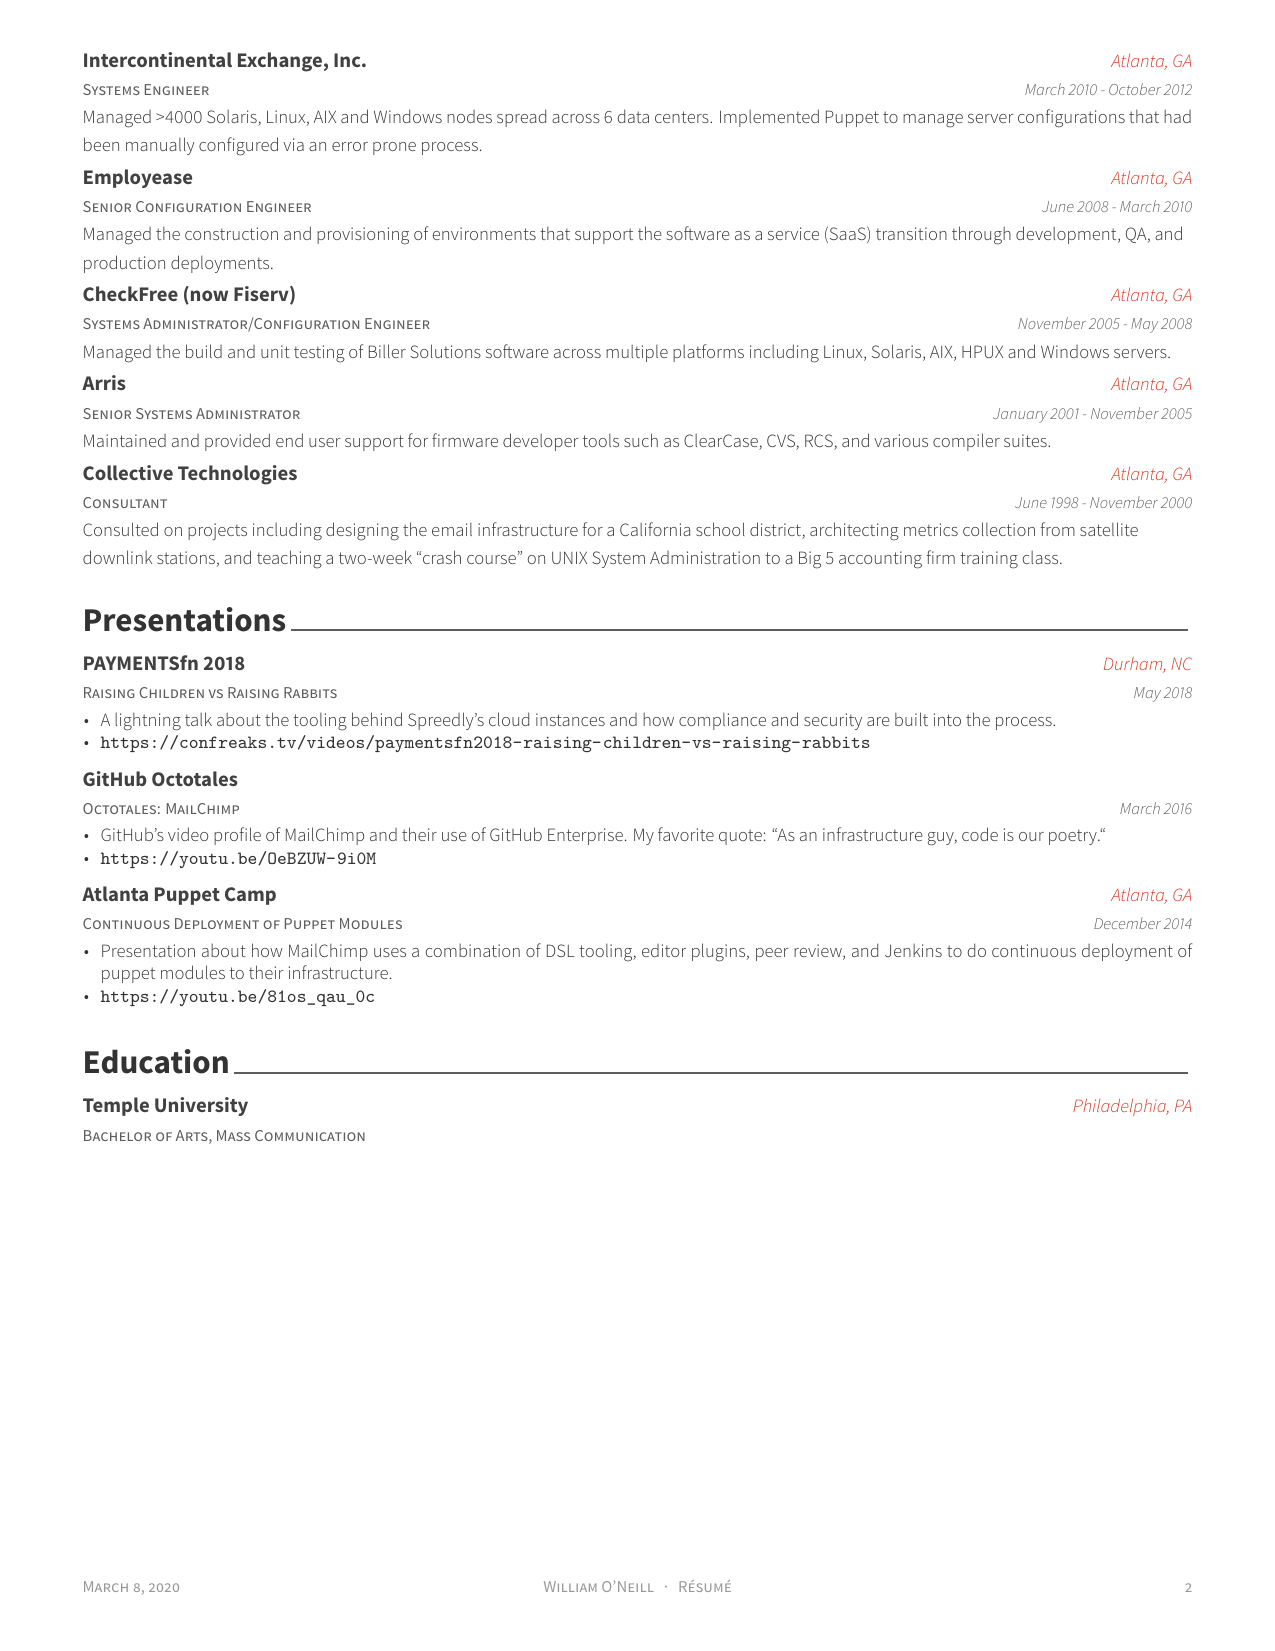
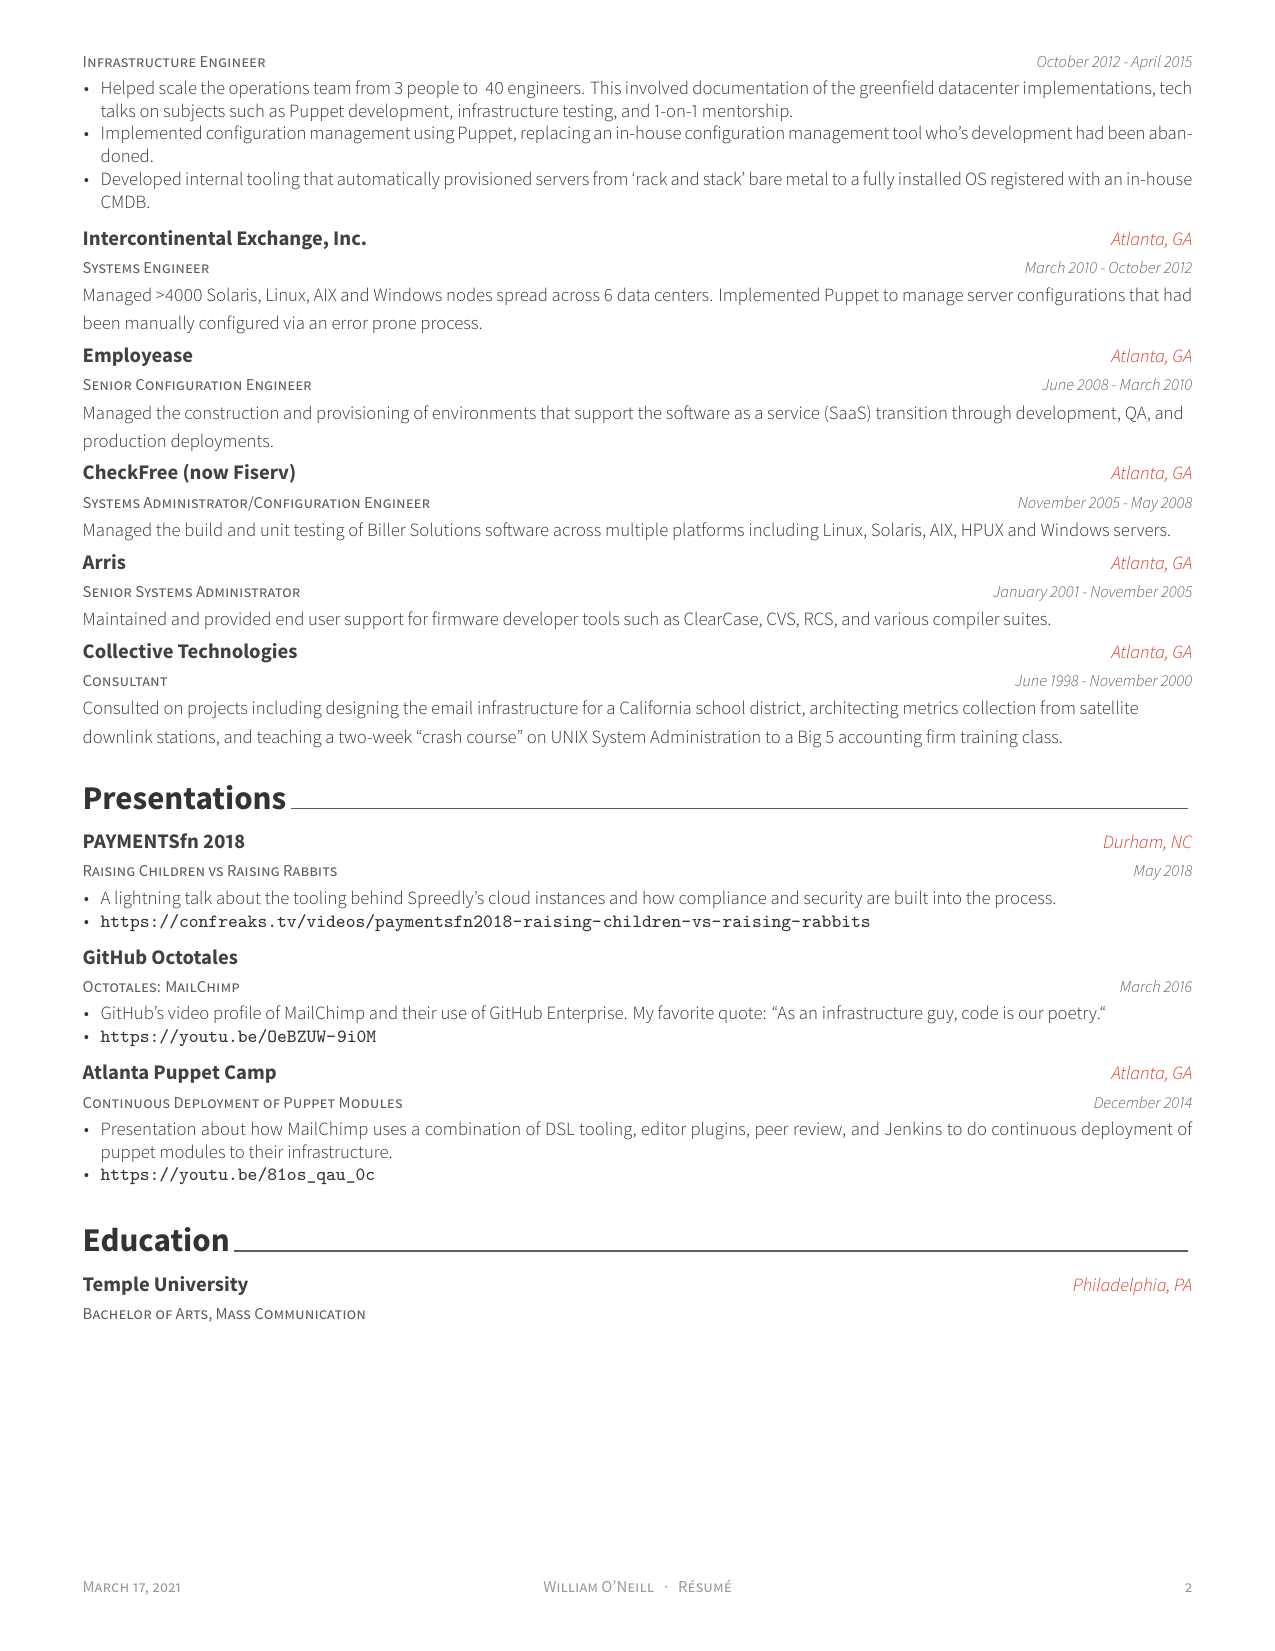
Update with current role

diff --git a/resume/experience.tex b/resume/experience.tex
@@ -9,12 +9,26 @@
 %-------------------------------------------------------------------------------
 \begin{cventries}
 
-%---------------------------------------------------------
+  %---------------------------------------------------------
+  \cventry
+  {Senior DevOps Engineer} % Job title
+  {ReCharge Payments} % Organization
+  {Santa Monica, California (remote)} % Location
+  {June 2020 - Current} % Date(s)
+  { 
+    \begin{cvitems} % Description(s) of tasks/responsibilities
+      \item {Implemented CI processes for Terraform and Ansible code bases. These reduced peer review cycles by automatically flagging syntax, formatting, and linting issues.}
+      \item {Designed a candidate tech lab as an additional vetting process during the interview cycle.}
+      \item {Delivered improvements to per-developer testing environments including SSL certificates and OAuth based authorization.}
+    \end{cvitems}
+  }
+
+  %---------------------------------------------------------
   \cventry
     {Senior DevOps Engineer} % Job title
     {Teachers Pay Teachers} % Organization
     {New York, NY (remote)} % Location
-    {December 2018 - Current} % Date(s)
+    {December 2018 - June 2020} % Date(s)
     { 
       \begin{cvitems} % Description(s) of tasks/responsibilities
         \item {Coordinated the audit process to achieve PCI Level 1 certification. Improvements to the process reduced the time to perform the audit from multiple weeks down to 2 days.}

diff --git a/resume/skills.tex b/resume/skills.tex
@@ -3,7 +3,7 @@
 
 \cvskill
     {Platforms}
-    {Amazon Web Services (AWS), CentOS/Red Hat, Debian/Ubuntu, Docker, Kubernetes, EKS}
+    {Amazon Web Services (AWS), Google Cloud Platform (GCP), CentOS/Red Hat, Debian/Ubuntu, Docker, Kubernetes, EKS, GKE}
 
 \cvskill
     {Technologies}
